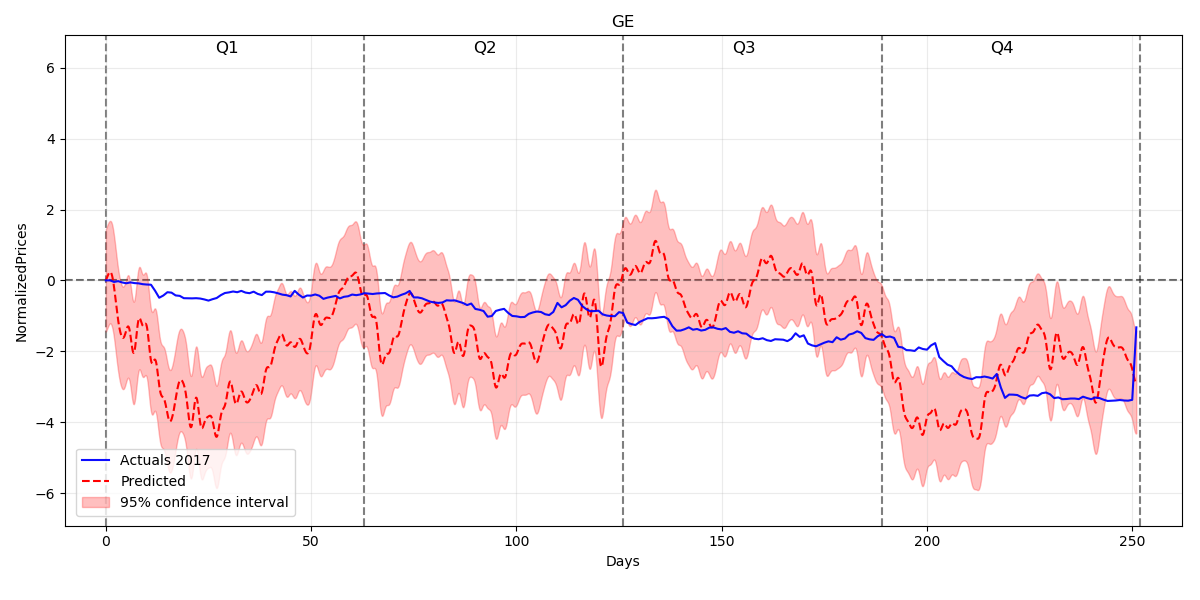
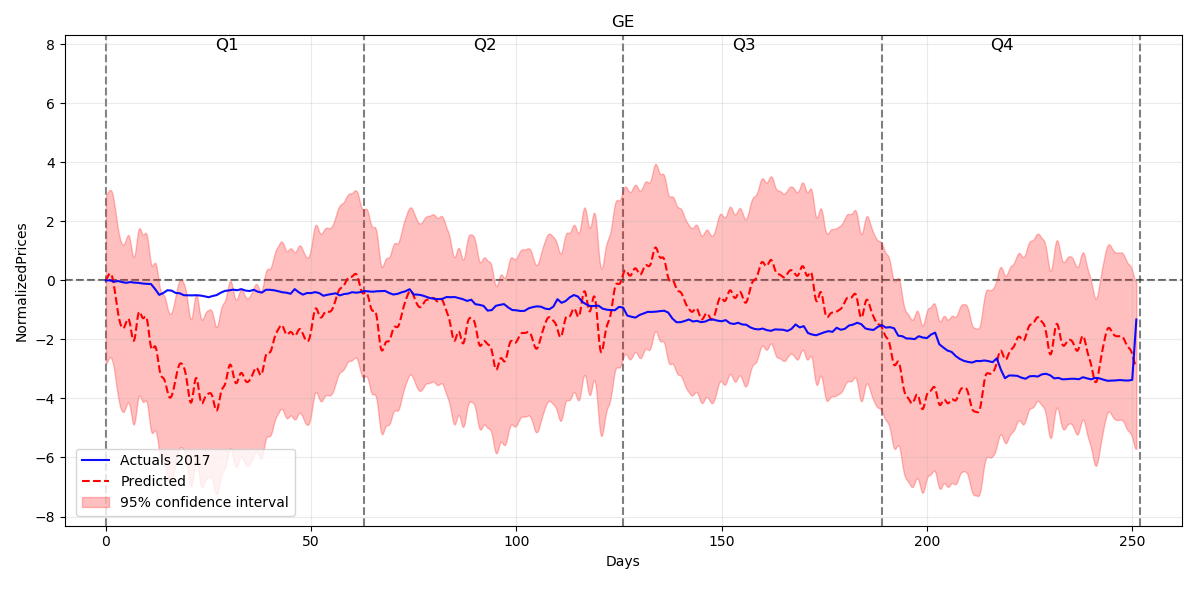
Pushing Changes to Gaussian Process Code

diff --git a/GaussianProcess/VisualizeData.py b/GaussianProcess/VisualizeData.py
@@ -72,8 +72,8 @@ class PlotData:
         x_mesh, y_mean, y_var = self.gp_model.make_gp_predictions(start_year=train_start, end_year=train_end,
                                                                   pred_year=pred_year,
                                                                   pred_quarters=pred_quarters)
-        y_lower = np.squeeze(y_mean - np.sqrt(y_var))
-        y_upper = np.squeeze(y_mean + np.sqrt(y_var))
+        y_lower = np.squeeze(y_mean - 1.96*np.sqrt(y_var))
+        y_upper = np.squeeze(y_mean + 1.96*np.sqrt(y_var))
         y_max = max(abs(min(y_lower) - 1), abs(max(y_upper) + 1))
         ax.set_ylim(bottom=-y_max, top=y_max)
 

diff --git a/GaussianProcess/PreProcessing.py b/GaussianProcess/PreProcessing.py
@@ -11,7 +11,7 @@ class PreProcessing:
     def __init__(self, name):
         name= str(name)
         self.get_data(name)
-        self.data['Normalized_Close'] = self.normalized_data_col(self.data) # TODO Check Norm Adj Close
+        self.data['Normalized_Close'] = self.normalized_data_col(self.data)
         self.data['Quarter'] = self.get_quarter_col(self.data)
         self.num_days = 252
         self.prices_by_year = self.get_prices_by_year()

diff --git a/GaussianProcess/GP.py b/GaussianProcess/GP.py
@@ -12,7 +12,6 @@ class GP:
 
     def __init__(self, company):
         self.preprocessed_data = PreProcessing(str(company))
-        #self.kernel = gpflow.kernels.RBF(2, lengthscales=1,variance = 63)+ gpflow.kernels.White(2, variance = 1e-10)
 
     def make_gp_predictions(self, start_year, end_year, pred_year, pred_quarters = []):
         start_year, end_year, pred_year= int(start_year),int(end_year), int(pred_year)
